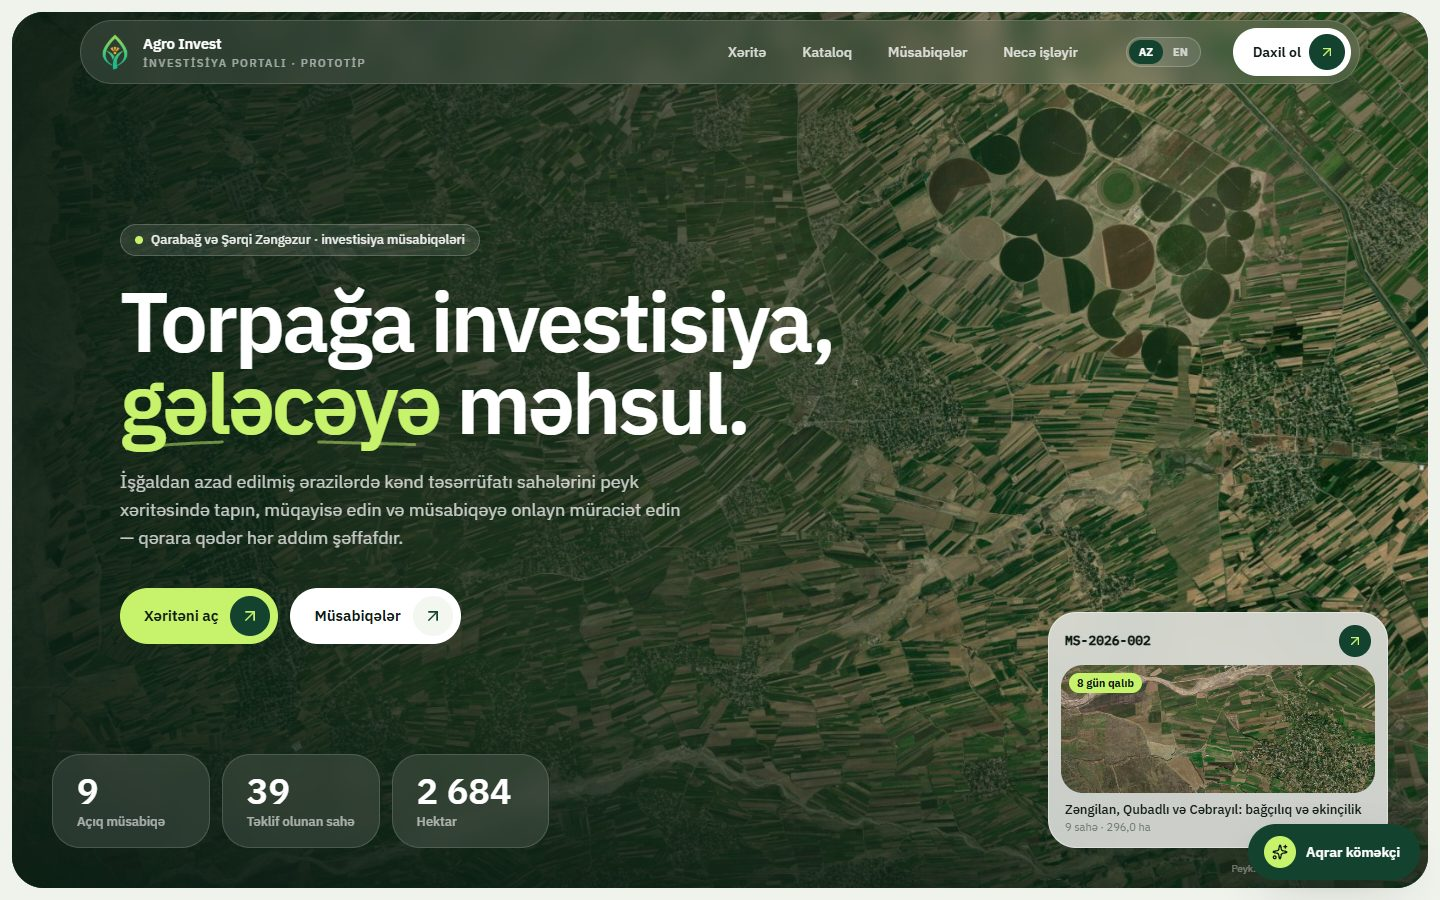
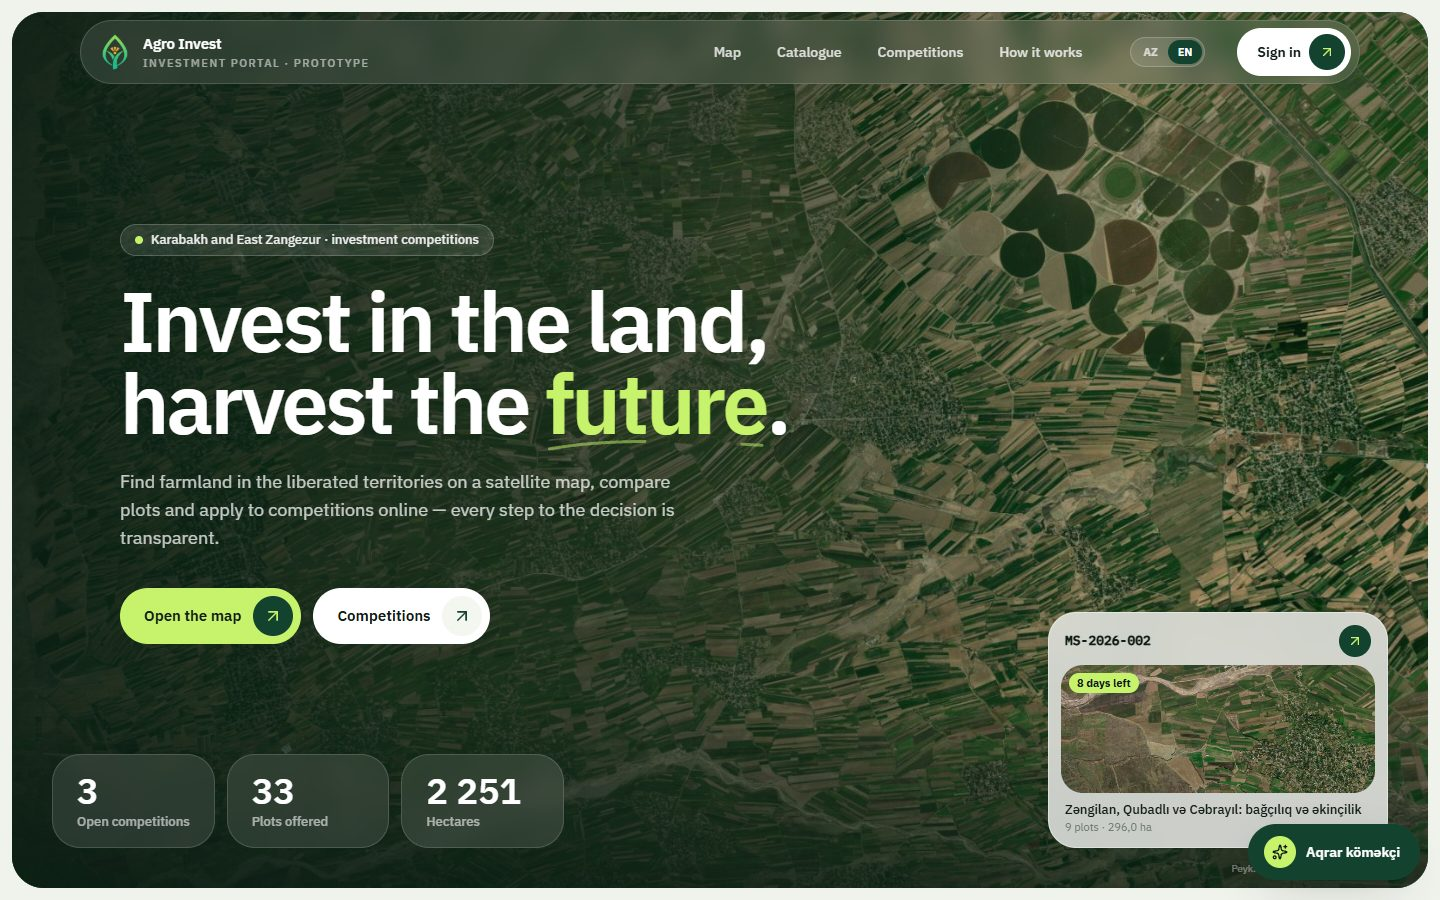
Show the English interface in the README, signed in as well
The screenshots now come from the English interface, and with demo
accounts signed in the cabinet, the administration console and the
methodology editor appear too, alongside the plot comparison.

diff --git a/README.md b/README.md
@@ -61,6 +61,25 @@ to its original polygon.
 
 ![Plot page](docs/images/plot.jpg)
 
+![Plot comparison](docs/images/compare.jpg)
+
+### Investor cabinet
+
+Planned investment, applications and their status, upcoming deadlines, notifications and plots
+that match the investor's budget and interests.
+
+![Investor cabinet](docs/images/cabinet.jpg)
+
+### Administration console
+
+The Ministry's side: what waits for review, the latest applications and the portal in figures;
+staff see only the sections their permissions allow. The methodology editor lets experts change
+the AHP comparisons with live weights and consistency ratio.
+
+![Administration console](docs/images/admin-console.jpg)
+
+![Suitability methodology editor](docs/images/admin-methodology.jpg)
+
 ### And more
 
 - **Electronic application** — Azerbaijani citizens (FİN), foreign citizens (passport) and
